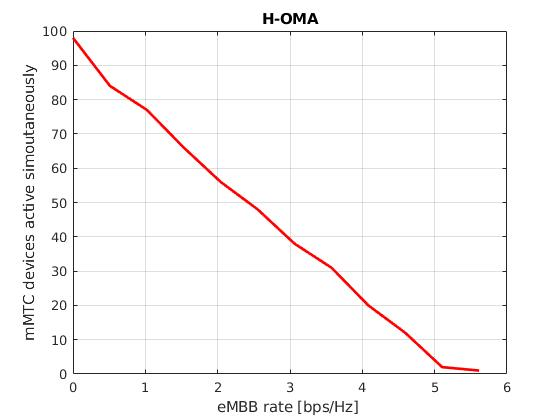
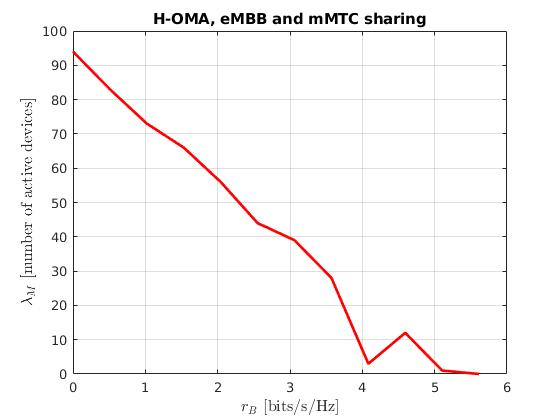
update

diff --git a/homa.m b/homa.m
@@ -15,7 +15,7 @@ SNR_M = 10^(SNR_M_db/10);
 Rm = 0.04;                % Rate for mMTC devices. Fixed to a certain value (in bits/s/Hz)
 Em = 0.1;                 % Maximum error accepted for mMTC service
 nmax = 200;               % Number of max devices, i.e. start testing 1 device and go to the max of 200 trying to access the BS at the same time
-niter = 1e2;              % Number of iterations each time that a certain number of devices is active simultaneously
+niter = 1e4;              % Number of iterations each time that a certain number of devices is active simultaneously
 
 for main = 1:length(alpha)  
 
@@ -70,7 +70,7 @@ for main = 1:length(alpha)
             end
 
         end
-        if mean(Error) > Em        % If this supposed lambda_m had a error rate higher than the requirement of service
+        if mean(Error) > Em      % If this supposed lambda_m had a error rate higher than the requirement of service
             lmax = [lmax (lambda_m-1)];     % we save the number of devices that the channel supports
             noutage = mean(EDm);   
             break;
@@ -86,10 +86,10 @@ for main = 1:length(alpha)
 
 end
 
-
+%%
 figure;
 plot(rBf,max_devices,'r','LineWidth',2);
 xlabel('$r_B$ [bits/s/Hz]','Interpreter','latex','fontsize',12)
 ylabel('$\lambda_M$ [number of active devices]','Interpreter','latex','fontsize',12)
-title('H-NOMA, eMBB and mMTC sharing')
+title('H-OMA, eMBB and mMTC sharing')
 grid on

diff --git a/hnoma.m b/hnoma.m
@@ -26,14 +26,14 @@ Gb = SNR_B*Hb.^2;                             % Channel Gain of the eMBB Device
 
 %% Monte Carlo simulations
 Lambda_m_non=zeros(1,length(rb_HNOMA));
-for x=1:length(rb_HNOMA)
+parfor x=1:length(rb_HNOMA)
     Gb_tar_min=(2^rb_HNOMA(x))-1;  
-    for Am_it=1:Am_max % Number of active mMTC devices
+    for Am=1:Am_max % Number of active mMTC devices
         
-        Am = poissrnd(Am_it);
-        while Am == 0 
-            Am = poissrnd(Am_it);
-        end
+        %Am = poissrnd(Am_it);
+%         while Am == 0 
+%             Am = poissrnd(Am_it);
+%         end
         
         Gm=Gm_max(1:Am,:);
         if Am~=1
